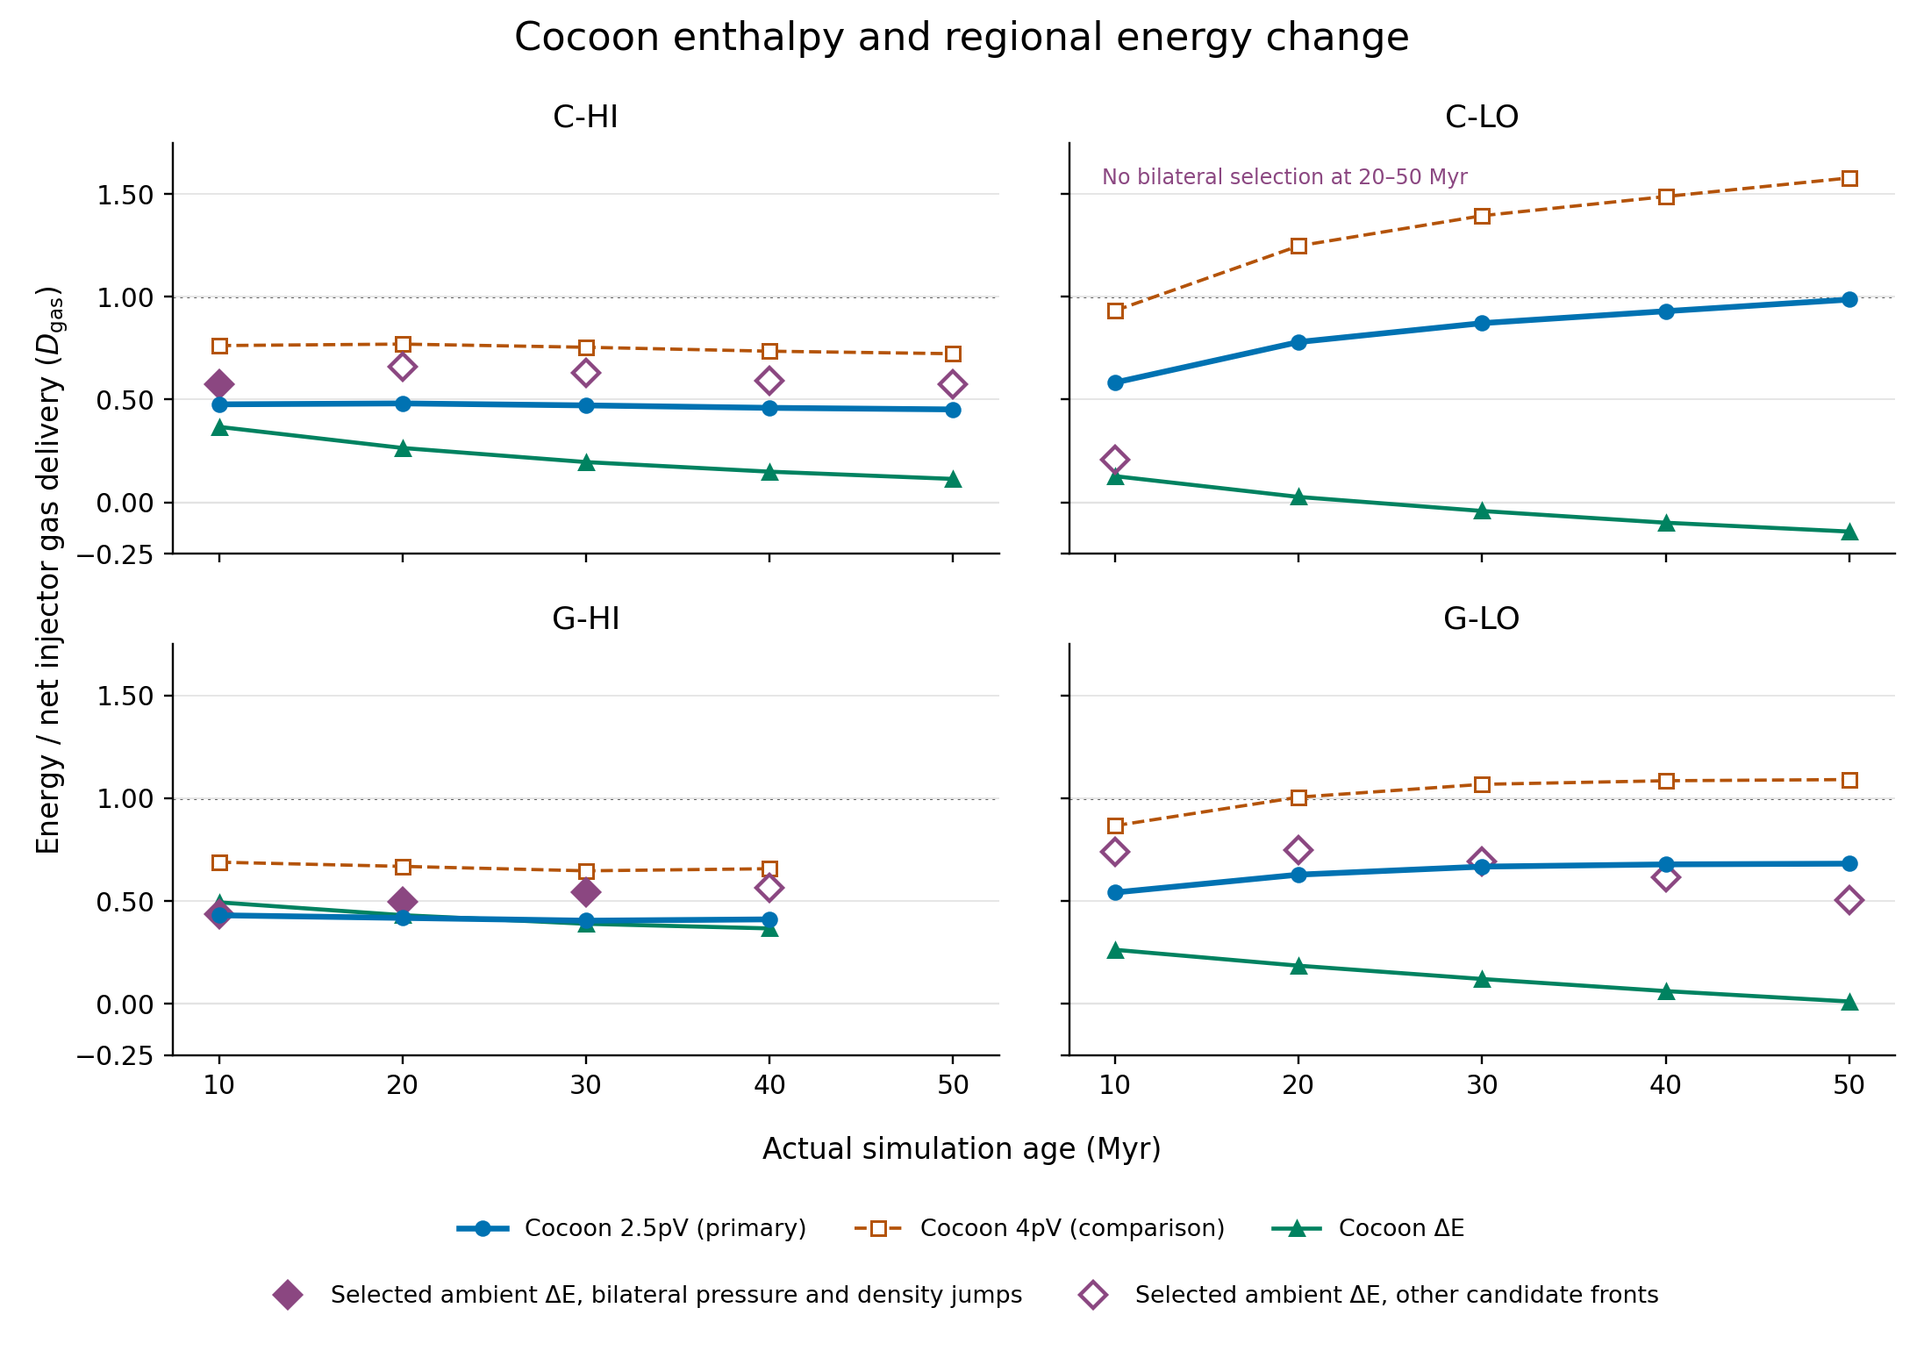
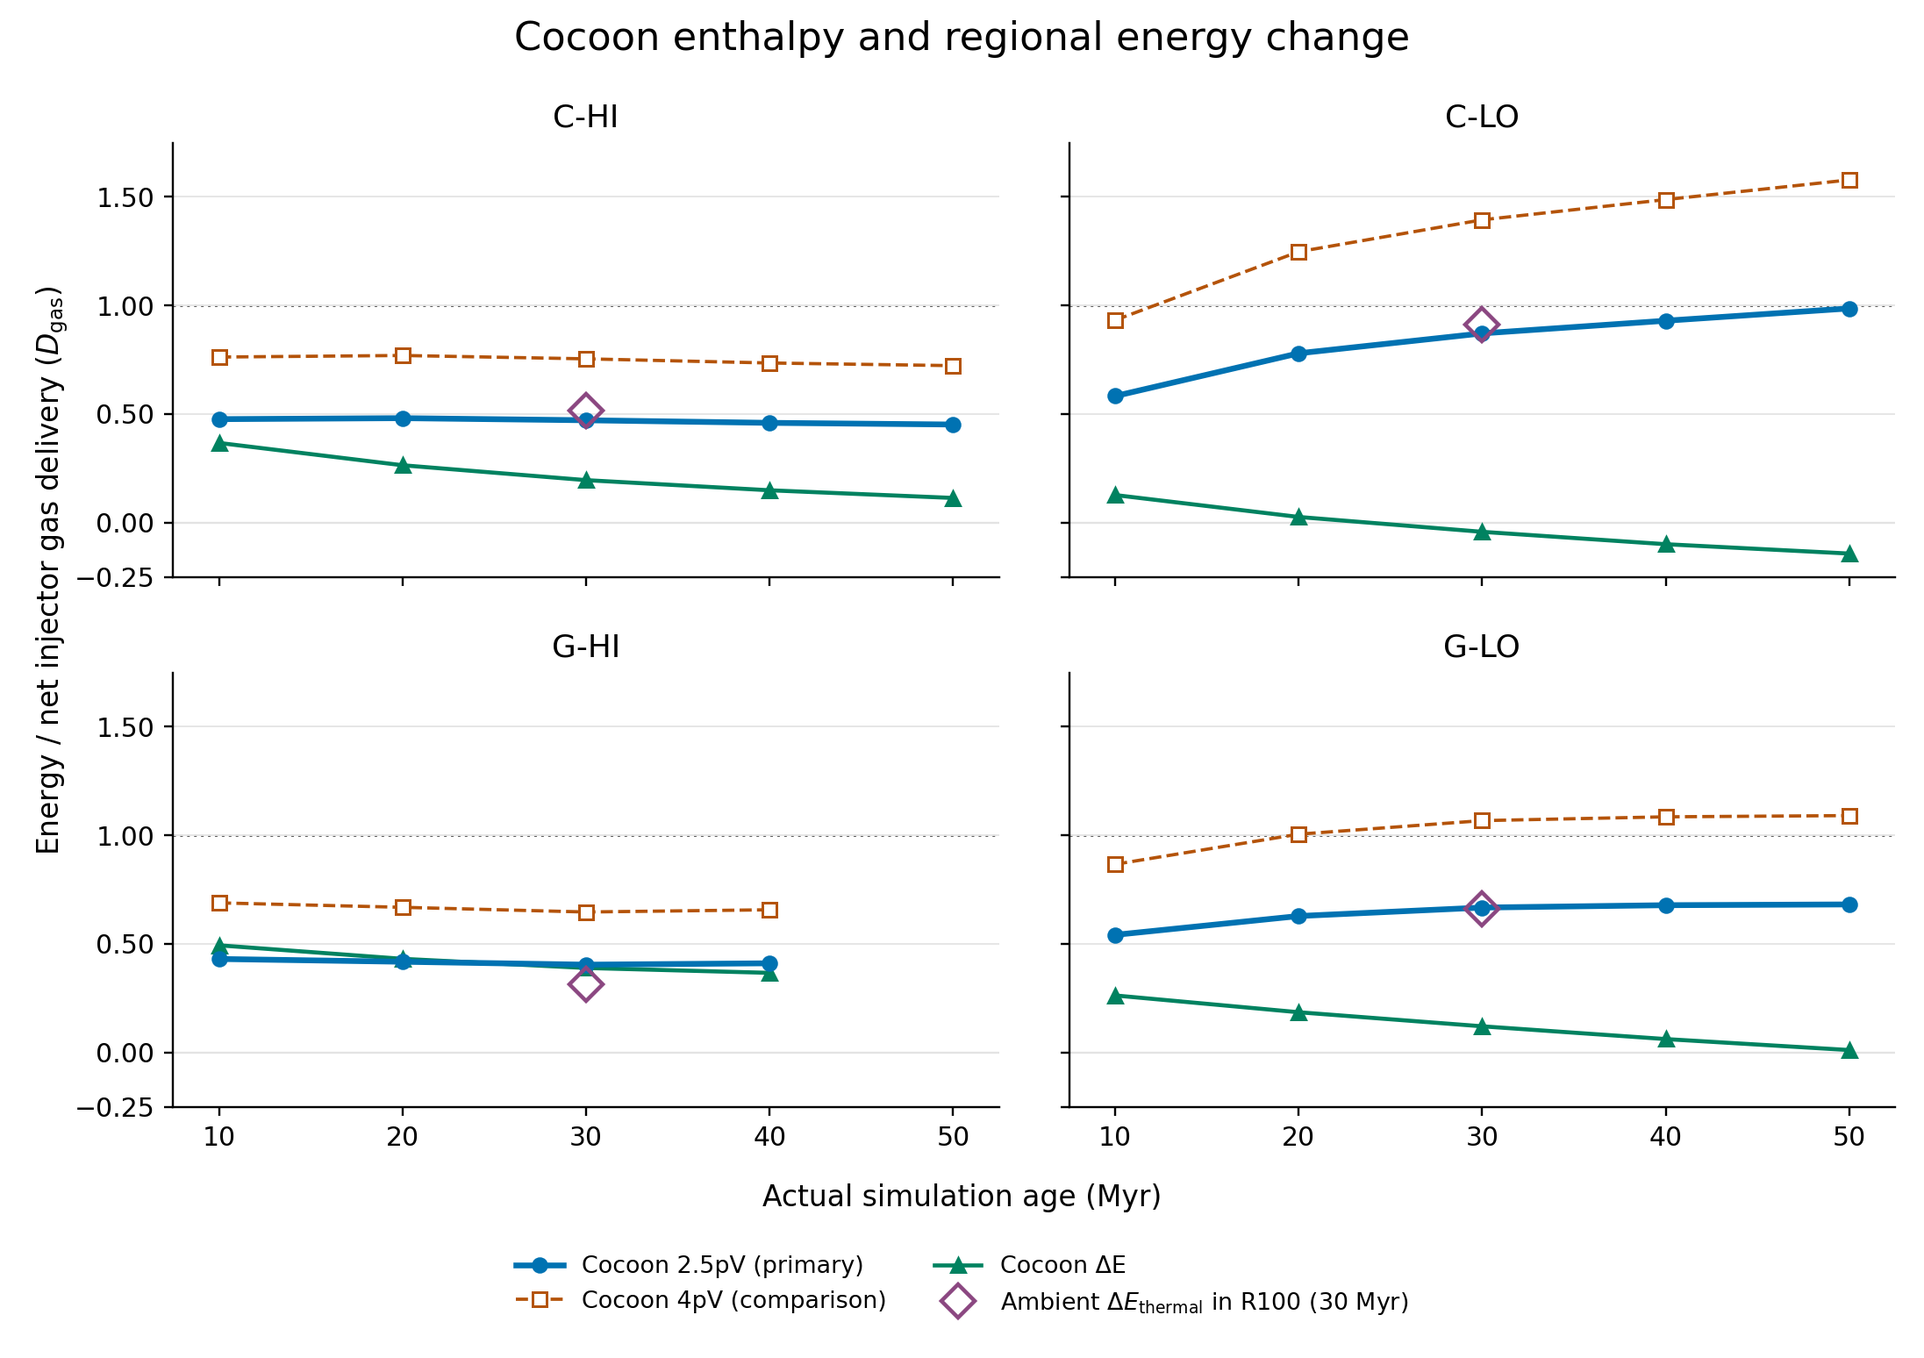
Use the supported ambient-heating measurement in Figure 1

diff --git a/scripts/science/plot_native_component_comparison.py b/scripts/science/plot_native_component_comparison.py
@@ -1,6 +1,7 @@
 """Plot current whole-cocoon enthalpy and regional stock changes per measured injector delivery."""
 import argparse
 import json
+import math
 from pathlib import Path
 
 import matplotlib
@@ -8,74 +9,57 @@ matplotlib.use("Agg")
 import matplotlib.pyplot as plt
 
 from four_case_energy_partition import PUBLISHED, checked, csv_rows
-from four_case_shock_partition import OUT as DOWNSTREAM, SIDES, keyed, match
 from restate_native_delivery import CASES, ROOT
 
 
 AGES = (10, 20, 30, 40, 50)
 OUTPUT = ROOT / "manuscript/figures/native_delivered_energy_partition.png"
[2 lines of base64/hex data omitted]
 
 
 def load_points():
     energy = json.loads(checked(PUBLISHED / "verification.json", ENERGY_RECEIPT))
-    front = json.loads(checked(DOWNSTREAM / "summary.json", FRONT_RECEIPT))
 
-    def table(directory, hashes, name):
-        return csv_rows(checked(directory / name, hashes[name]))
+    def table(name, **selection):
+        data = csv_rows(checked(PUBLISHED / name, energy["products_sha256"][name]))
+        selected = {}
+        for row in data:
+            if all(row[field] == value for field, value in selection.items()):
+                key = row["case"], int(row["snapshot_index"])
+                if key in selected:
+                    raise ValueError(f"Duplicate {name} row at {key}")
+                selected[key] = row
+        return selected
 
-    energy_hashes, front_hashes = energy["products_sha256"], front["product_sha256"]
-    keys = ("case", "snapshot_index")
-    snapshots = keyed(table(PUBLISHED, energy_hashes, "snapshots.csv"), keys)
-    cocoon = keyed((r for r in table(PUBLISHED, energy_hashes, "box_components.csv")
-                    if r["aperture"] == "whole_grid" and r["region"] == "cocoon"), keys)
-    downstream = keyed((r for r in table(DOWNSTREAM, front_hashes, "downstream_components.csv")
-                        if r["side"] == "bipolar_total" and float(r["threshold_factor"]) == 1), keys)
-    axial = keyed(table(DOWNSTREAM, front_hashes, "axial_evidence.csv"), (*keys, "side"))
+    snapshots = table("snapshots.csv")
+    cocoon = table("box_components.csv", aperture="whole_grid", region="cocoon")
+    ambient = table("selected_age_components.csv", aperture="R100", region="ambient", snapshot_index="30")
     selected = [(c, i) for c, last in CASES.items() for i in AGES if i <= last]
-    if set(downstream) != set(selected):
-        raise ValueError("Downstream row inventory differs from the 19 selected case-ages")
+    if set(ambient) != {(case, 30) for case in CASES}:
+        raise ValueError("Expected an ambient thermal measurement in each case at 30 Myr")
 
-    points, bilateral, censored = [], set(), set()
+    points = []
     for case, i in selected:
-        snap, region, candidate = (t[case, i] for t in (snapshots, cocoon, downstream))
+        snap, region = snapshots[case, i], cocoon[case, i]
         age = float(snap["actual_age_myr"])
         gas = float(snap["cumulative_net_gas_delivery_erg"])
-        match(float(region["cumulative_net_gas_delivery_erg"]), gas, "cocoon denominator")
-        match(float(candidate["cumulative_bipolar_gas_delivery_erg"]), gas, "front denominator")
-        sides = [axial[case, i, s] for s in SIDES]
-        if gas <= 0 or any(float(r["actual_age_myr"]) != age for r in (region, candidate, *sides)):
-            raise ValueError(f"Invalid supply or unmatched output time at {case}/{i}")
         row = {"case": case, "index": i, "age": age}
-        for key, r, erg, ratio in (
+        quantities = [
             ("primary", snap, "native_lobe_2p5pV_erg", "native_lobe_2p5pV_over_delivery"),
             ("comparison", snap, "native_lobe_4pV_erg", "native_lobe_4pV_over_delivery"),
             ("cocoon", region, "total_delta_erg", "total_over_delivery"),
-        ):
+        ]
+        if i == 30:
+            quantities.append(("ambient", ambient[case, i], "thermal_delta_erg", "thermal_over_delivery"))
+        for key, r, erg, ratio in quantities:
+            if gas <= 0 or float(r["cumulative_net_gas_delivery_erg"]) != gas or float(r["actual_age_myr"]) != age:
+                raise ValueError(f"Invalid supply or unmatched output time at {case}/{i}")
             row[key] = float(r[erg]) / gas
-            match(row[key], float(r[ratio]), ratio)
-        match(row["comparison"], 1.6*row["primary"], "enthalpy convention")
-        if candidate["status"] == "unresolved_bilateral_gate":
-            if candidate["downstream_total_change_erg"] or candidate["downstream_total_change_over_delivery"]:
-                raise ValueError(f"A censored selection has a downstream value at {case}/{i}")
-            row["downstream"], row["jumps"] = None, False
-            censored.add((case, i))
-        elif candidate["status"] == "quantitative_bilateral":
-            row["downstream"] = float(candidate["downstream_total_change_erg"]) / gas
-            match(row["downstream"], float(candidate["downstream_total_change_over_delivery"]), "downstream stock")
-            jumps = [float(s["pressure_jump_ratio"]) > 1 and 1 < float(s["density_jump_ratio"]) < 4 for s in sides]
-            if jumps != [s["both_jump_machs_defined"] == "True" for s in sides]:
-                raise ValueError(f"Axial jump evidence disagrees at {case}/{i}")
-            row["jumps"] = all(jumps)
-            if row["jumps"]:
-                bilateral.add(f"{case}/{i}")
-        else:
-            raise ValueError(f"Unrecognised bilateral status at {case}/{i}")
+            if not math.isclose(row[key], float(r[ratio]), rel_tol=2e-11, abs_tol=2e-11):
+                raise ValueError(f"Published ratio differs at {case}/{i}: {ratio}")
+        if not math.isclose(row["comparison"], 1.6 * row["primary"], rel_tol=2e-11):
+            raise ValueError(f"Enthalpy convention differs at {case}/{i}")
         points.append(row)
-    if (bilateral != set(front["qualified_with_both_jump_inversions_on_both_sides"])
-            or censored != {("C-LO", i) for i in (20, 30, 40, 50)}):
-        raise ValueError("Jump classifications or censored case-ages differ from the source review")
     return points
 
 
@@ -94,16 +78,10 @@ def build(path):
             ax.plot(ages, [r[key] for r in rows], color=color, marker=marker, markersize=5.2,
                     markerfacecolor="white" if key == "comparison" else color, linewidth=width, ls=line,
                     zorder=3 if key == "primary" else 2, label=name)
-        for jumps, face, name in (
-            (True, colors[3], "Selected ambient ΔE, bilateral pressure and density jumps"),
-            (False, "none", "Selected ambient ΔE, other candidate fronts"),
-        ):
-            valid = [r for r in rows if r["downstream"] is not None and r["jumps"] == jumps]
-            ax.plot([r["age"] for r in valid], [r["downstream"] for r in valid], marker="D", linestyle="none",
-                    markersize=7, markeredgewidth=1.45, markeredgecolor=colors[3], markerfacecolor=face, label=name)
-        if case == "C-LO":
-            ax.text(.04, .94, "No bilateral selection at 20–50 Myr", color=colors[3], fontsize=8,
-                    transform=ax.transAxes, va="top")
+        ambient, = [r for r in rows if "ambient" in r]
+        ax.plot(ambient["age"], ambient["ambient"], linestyle="none", marker="D", markersize=9,
+                markeredgewidth=1.5, markeredgecolor=colors[3], markerfacecolor="none", zorder=4,
+                label=r"Ambient $\Delta E_{\rm thermal}$ in R100 (30 Myr)")
         ax.set(title=case, xlim=(7.5, 52.5), ylim=(-.25, 1.75), xticks=AGES, yticks=(-.25, 0, .5, 1, 1.5))
         ax.axhline(1, color=".38", ls=":", lw=1.0, zorder=0)
         ax.axhline(0, color=".6", lw=.7, zorder=0)
@@ -113,10 +91,9 @@ def build(path):
     handles, labels = axes[0, 0].get_legend_handles_labels()
     fig.suptitle("Cocoon enthalpy and regional energy change", fontsize=15, y=.985)
     fig.supylabel(r"Energy / net injector gas delivery ($D_{\rm gas}$)", x=.018, y=.58, fontsize=11)
-    fig.supxlabel("Actual simulation age (Myr)", y=.142, fontsize=11)
-    fig.legend(handles[:3], labels[:3], loc="lower center", bbox_to_anchor=(.5, .070), ncols=3, frameon=False, fontsize=9)
-    fig.legend(handles[3:], labels[3:], loc="lower center", bbox_to_anchor=(.5, .021), ncols=2, frameon=False, fontsize=9)
-    fig.subplots_adjust(left=.09, right=.985, top=.895, bottom=.223, wspace=.085, hspace=.22)
+    fig.supxlabel("Actual simulation age (Myr)", y=.107, fontsize=11)
+    fig.legend(handles, labels, loc="lower center", bbox_to_anchor=(.5, .015), ncols=2, frameon=False, fontsize=9)
+    fig.subplots_adjust(left=.09, right=.985, top=.895, bottom=.185, wspace=.085, hspace=.22)
     path.parent.mkdir(parents=True, exist_ok=True)
     fig.savefig(path, dpi=215, facecolor="white")
     plt.close(fig)

diff --git a/manuscript/text/main.md b/manuscript/text/main.md
@@ -38,8 +38,6 @@ Native enthalpy is $H_{\mathrm{native}}=\alpha\int_{\mathrm{cocoon}}p\,dV$, with
 
 We normalize the primary native pressure estimate to the cumulative net gas energy transferred from the maintained injector to freely evolved cells at the identical case and actual output age. The signed cone and stationary-region fluxes are added before integrating the saved-state rates from the already initialized $t=0$ output. Gas-energy flux includes internal and kinetic energy and pressure work; it excludes gravitational-potential transport. The primary interface reconstruction is linear with the saved shock-flag fallback, and the primary time integral is trapezoidal. Left/right rectangles, first-order states and forced HLL/HLLC solvers provide sensitivity comparisons. These reconstructions omit intermediate Runge–Kutta states and the unsaved terminal velocity dip, so they are estimates of cumulative delivery rather than exact injection counters. Labelled bipolar kinetic power times actual active age, $E_{\mathrm{label}}$, remains a separate comparator. <!-- claims: NAT-01 -->
 
-We select ambient gas with an entropy excess connected to a compressed axial-front seed. Coarser no-jet controls calibrate the noise threshold. The selection requires a propagation estimate, seeds, connected extent, sufficient cells and valid measurements on both sides. We separately check the propagation direction and the upstream and downstream pressure and density jumps. We sum the current-minus-initial energies over the selected cells once within the ambient budget. <!-- claims: NAT-03 NAT-04 -->
-
 We tested X-ray cavity outlines on corrected 1-keV images of the 19 case–age combinations at three side-on azimuths ($0^\circ$, $45^\circ$ and $90^\circ$). The methods use X-ray brightness to select pixels. We reserved the projected jet tracer and the native three-dimensional lobe volumes for evaluating the outlines. We tested a fixed-area selector, an algorithm that grows regions from seed pixels, and cuts at 5%, 10% and 20% below the radial median brightness. <!-- claims: DET-01 DET-04 -->
 
 ### Statistical comparisons
@@ -78,11 +76,9 @@ Here $D_{\mathrm{gas}}$ is cumulative signed net gas delivery with the primary t
 
 The actual energy change in the current cocoon region spans 0.132–0.426 of labelled input in C-HI, 0.425–0.571 in G-HI and 0.013–0.298 in G-LO. In C-LO it ranges from −0.160 to 0.137. The gravitational term can decrease relative to the initial fields in the same cells. A negative total therefore describes a regional change under the chosen gravitational reference. <!-- claims: NAT-02 -->
 
-At 30 Myr, cells with jet tracer $\leq 0.001$ inside R100 gain thermal energy equal to 51.5%, 91.4%, 31.4% and 66.1% of net injector delivery in C-HI, C-LO, G-HI and G-LO. Tightening the cut to 0.0001 removes 0.44–3.39 percentage points. A separate convention weights the thermal change of every cell by its current ambient fraction, $1-\mathrm{tr1}$. It allocates 58.2%, 91.6%, 47.7% and 74.3% of delivery to ambient material. In G-HI, 16.30 points of this allocation come from cells inside the tracer-defined lobe. Both conventions use the same single-fluid pressure. At 50 Myr in C-LO every cell between R300 (72.86 kpc) and R100 (80.94 kpc) satisfies even the tighter cut. The shell gains 27.4% of delivery, including 20.0 percentage points of thermal energy. <!-- claims: NAT-14 -->
+At 30 Myr, cells with jet tracer $\leq 0.001$ inside R100 gain thermal energy equal to 51.5%, 91.4%, 31.4% and 66.1% of net injector delivery in C-HI, C-LO, G-HI and G-LO. Tightening the cut to 0.0001 removes 0.44–3.39 percentage points. The ambient cells gain more thermal energy than the lobe cells in all four runs at both cuts. At the tighter cut in G-HI, the two gains are 28.0% and 23.5% of delivery. Cells with a small positive tracer contribute 27.3 of those 28.0 ambient points, and cells with exactly zero stored tracer contribute 0.7. The ordering at positive cuts below 0.0001 remains unresolved. A separate convention weights the thermal change of every cell by its current ambient fraction, $1-\mathrm{tr1}$. It allocates 58.2%, 91.6%, 47.7% and 74.3% of delivery to ambient material. In G-HI, 16.30 points of this allocation come from cells inside the tracer-defined lobe. Both conventions use the same single-fluid pressure. At 50 Myr in C-LO every cell between R300 (72.86 kpc) and R100 (80.94 kpc) satisfies even the tighter cut. The shell gains 27.4% of delivery, including 20.0 percentage points of thermal energy. <!-- claims: NAT-14 -->
 
 At 50 Myr in C-LO, the gas between R300 and the fixed inset box stores an excess of 32.4% of cumulative injector delivery. Beyond R100 the excess is 5.0%. Integrating at each interval’s later radius and subtracting energy already ahead of the surface gives 32.0% and 5.1% from the same simulation fields, a check on the stock calculation. This leaves 27.4% of delivery stored between the spheres. The two fixed-radius rules assign 54.5–54.6 points of net gas-energy transport to this shell, with about −27.7 points from the changing set of cells and a residual of 0.5–0.7 points. The individual surface integrals vary from 68.7 to 82.6 points through R300 and 14.1 to 28.1 through R100. In C-HI, G-HI and G-LO the absolute excess between either sphere and the inset box stays below 0.019% of delivery at every eligible output. Each earlier radius lies inside the expanding sphere by the next output, so flow across that interior surface cannot establish escape. <!-- claims: BND-17 -->
-
-Across the whole domain, ambient cells with an entropy excess connected to the axial front store 63.0%, 54.3% and 69.4% of measured delivery at 30 Myr in C-HI, G-HI and G-LO. In G-LO the 30-Myr fraction ranges from 54.0% with double the selection thresholds to 77.0% with half. The only bilateral C-LO selection stores 20.6% at 10 Myr. C-HI at 10 Myr and G-HI at 10, 20 and 30 Myr have compressive pressure and density jumps on both sides. Of the 19 individual sides missing either jump, the sampled edge lies behind the projected jet-tracer tip on 18 and at the tip on one. All 12 low-power edges lie 1.1–4.7 kpc behind the tip. These axial samples leave the presence of an atmospheric bow shock unresolved. The projection also leaves the gas composition in individual sample cells undetermined. <!-- claims: NAT-03 -->
 
 The cocoon and ambient contributions sum to the independently measured whole-domain energy change within $10^{-9}E_{\mathrm{label}}$. C-LO gains about 6–24 times the labelled jet input across the domain, which includes a large energy inflow through its outer boundary. This inflow must be accounted for before interpreting the domain's energy gain as a response to the jet. <!-- claims: NAT-04 BND-01 BND-02 -->
 
@@ -172,8 +168,6 @@ its area outside the lobe despite an empty time-zero control.
 ## Discussion
 
 Even when the native pressure and volume are known, their product omits the kinetic and gravitational energy changes and energy stored outside the lobe. The observational comparison poses a separate problem. The C-HI outlines that reproduced the lobe volume missed most of its projected area. The held-out test confirms that these two image-only rules systematically omit lobe area. Their inferred volumes therefore provide an uncertain basis for comparing X-ray enthalpies or clocks across atmospheres. <!-- claims: NAT-02 NAT-07 DET-01 DET-02 DET-05 -->
-
-Halving or doubling the entropy and compression thresholds for the selected ambient cells changes the fraction of delivered energy in the selected gas by under 0.005 percentage points in G-HI, by up to 20.7 points in G-LO (61.6% to 40.9% on doubling the thresholds at 40 Myr) and 12.1 points at C-LO/10. Inferring irreversible atmospheric heating requires the upstream state of the gas and the mass processed over time. <!-- claims: NAT-03 -->
 
 ## Conclusions
 

diff --git a/manuscript/text/figures.md b/manuscript/text/figures.md
@@ -1,3 +1,3 @@
-![Native lobe enthalpy and regional energy changes as fractions of cumulative signed injector gas delivery at the actual output age. Circles show the primary enthalpy convention, $2.5pV$, and open squares show $4pV$. Triangles give the change in thermal, kinetic and gravitational energy in the cells occupied by the current cocoon, relative to the same cells at time zero. Diamonds show the change in ambient cells with an entropy excess connected to the axial front. Filled diamonds identify the four selections with compressive pressure and density jumps on both sides. For open diamonds, the location of the axial samples leaves the atmospheric shock interpretation unresolved. Only the 10-Myr C-LO selection passed the bilateral criteria. The G-HI selected-age series ends at 40 Myr.](../figures/native_delivered_energy_partition.png){#fig-main-1 width=100%}
+![Native lobe enthalpy and regional energy changes as fractions of cumulative signed injector gas delivery at the actual output age. Circles show the primary enthalpy convention, $2.5pV$, and open squares show $4pV$. Triangles give the change in thermal, kinetic and gravitational energy in the cells occupied by the current cocoon, relative to the same cells at time zero. The open diamond at 30 Myr in each panel gives the thermal energy gained inside the 100 km s$^{-1}$ sphere (R100) by cells on the ambient side of the primary tracer cut ($\mathrm{tr1}\leq 10^{-3}$). The G-HI selected-age series ends at 40 Myr.](../figures/native_delivered_energy_partition.png){#fig-main-1 width=100%}
 
-<!-- claims: NAT-01 NAT-02 NAT-03 NAT-14 -->
+<!-- claims: NAT-01 NAT-02 NAT-14 -->
